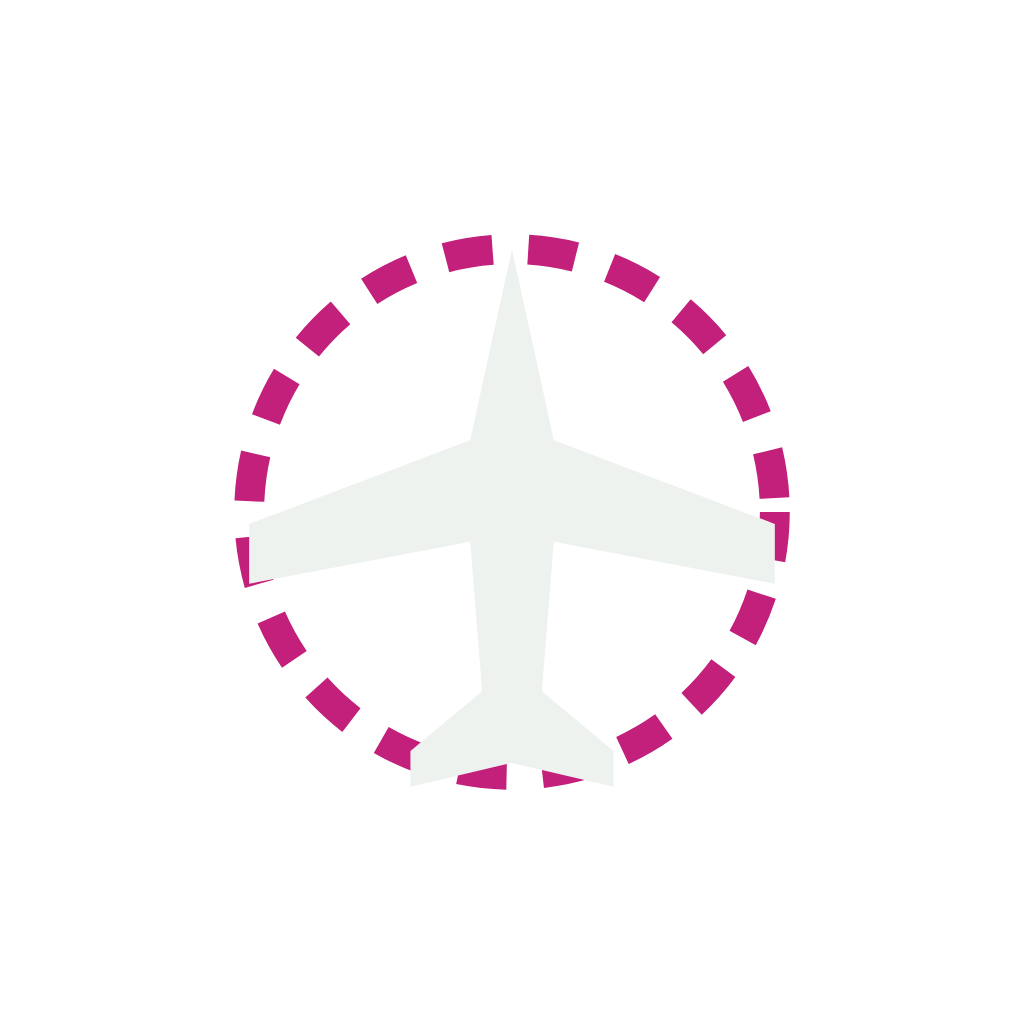
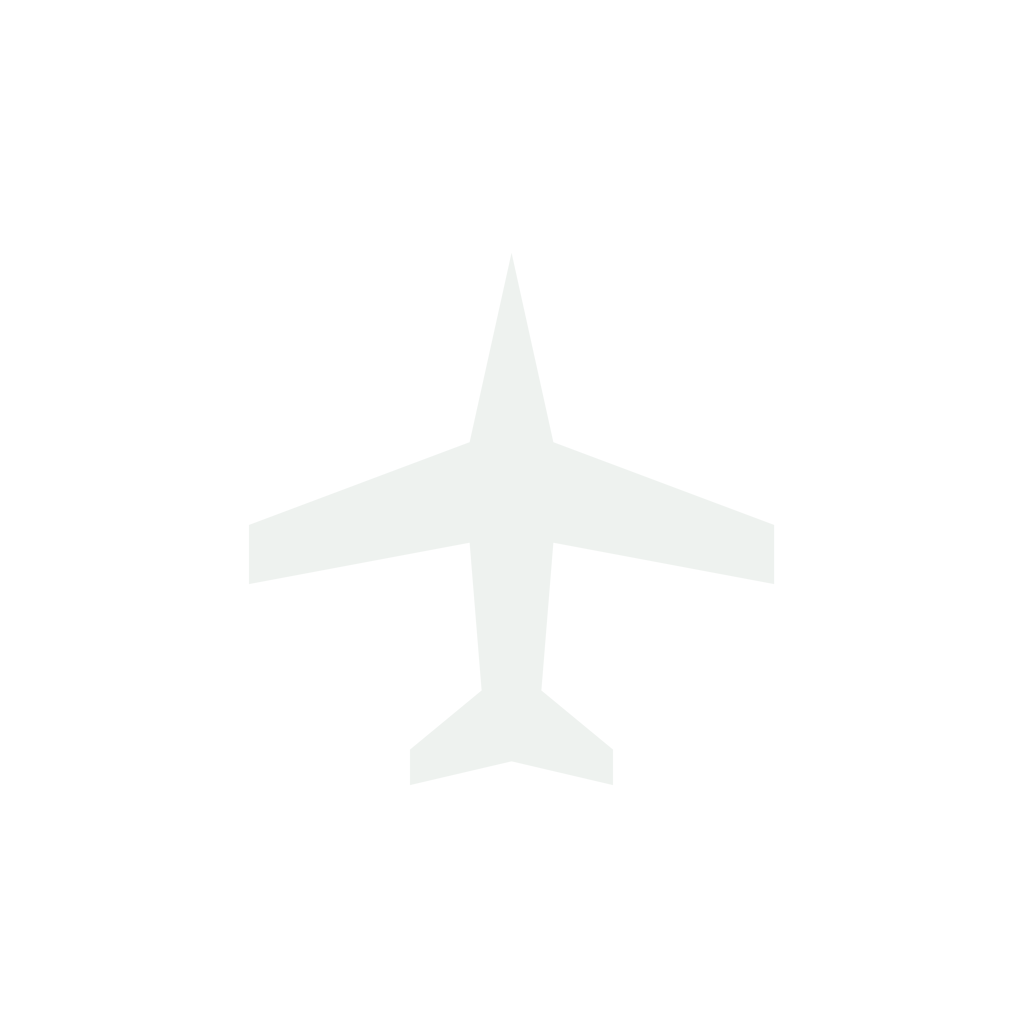
Hangar Escola: ícone sem o anel rosa e intro com decolagem
Claude-Session: https://claude.ai/code/session_01PxKViBYL6qRqF4hkoHqSJb

diff --git a/aviao/index.html b/aviao/index.html
@@ -13,9 +13,53 @@
   <link rel="preconnect" href="https://fonts.googleapis.com">
   <link rel="preconnect" href="https://fonts.gstatic.com" crossorigin>
   <link href="https://fonts.googleapis.com/css2?family=Barlow+Condensed:wght@500;600;700&family=IBM+Plex+Mono:wght@400;500&family=IBM+Plex+Sans:wght@400;500;600&display=swap" rel="stylesheet">
-  <link rel="stylesheet" href="style.css?v=74">
+  <link rel="stylesheet" href="style.css?v=75">
 </head>
 <body>
+  <!-- Intro: o avião decola pela pista iluminada e aparece o nome do app (toque para pular) -->
+  <div class="intro" id="intro" aria-hidden="true">
+    <svg class="intro__scene" viewBox="0 0 360 640" preserveAspectRatio="xMidYMax slice">
+      <defs>
+        <linearGradient id="introTrail" x1="0" y1="1" x2="0" y2="0"><stop offset="0" stop-color="#eef2ef" stop-opacity="0"/><stop offset="1" stop-color="#eef2ef" stop-opacity=".55"/></linearGradient>
+      </defs>
+      <path class="intro__runway" d="M150 640 L176 220 L184 220 L210 640 Z"/>
+      <line class="intro__center" x1="180" y1="640" x2="180" y2="230"/>
+        <circle class="intro__light" cx="140.8" cy="590.0" r="3.31" style="animation-delay:0.00s"/>
+        <circle class="intro__light" cx="219.2" cy="590.0" r="3.31" style="animation-delay:0.00s"/>
+        <circle class="intro__light" cx="142.9" cy="562.0" r="3.15" style="animation-delay:0.07s"/>
+        <circle class="intro__light" cx="217.1" cy="562.0" r="3.15" style="animation-delay:0.07s"/>
+        <circle class="intro__light" cx="145.1" cy="534.0" r="2.99" style="animation-delay:0.14s"/>
+        <circle class="intro__light" cx="214.9" cy="534.0" r="2.99" style="animation-delay:0.14s"/>
+        <circle class="intro__light" cx="147.2" cy="506.0" r="2.83" style="animation-delay:0.21s"/>
+        <circle class="intro__light" cx="212.8" cy="506.0" r="2.83" style="animation-delay:0.21s"/>
+        <circle class="intro__light" cx="149.3" cy="478.0" r="2.67" style="animation-delay:0.28s"/>
+        <circle class="intro__light" cx="210.7" cy="478.0" r="2.67" style="animation-delay:0.28s"/>
+        <circle class="intro__light" cx="151.5" cy="450.0" r="2.51" style="animation-delay:0.35s"/>
+        <circle class="intro__light" cx="208.5" cy="450.0" r="2.51" style="animation-delay:0.35s"/>
+        <circle class="intro__light" cx="153.6" cy="422.0" r="2.35" style="animation-delay:0.42s"/>
+        <circle class="intro__light" cx="206.4" cy="422.0" r="2.35" style="animation-delay:0.42s"/>
+        <circle class="intro__light" cx="155.7" cy="394.0" r="2.19" style="animation-delay:0.49s"/>
+        <circle class="intro__light" cx="204.3" cy="394.0" r="2.19" style="animation-delay:0.49s"/>
+        <circle class="intro__light" cx="157.9" cy="366.0" r="2.03" style="animation-delay:0.56s"/>
+        <circle class="intro__light" cx="202.1" cy="366.0" r="2.03" style="animation-delay:0.56s"/>
+        <circle class="intro__light" cx="160.0" cy="338.0" r="1.87" style="animation-delay:0.63s"/>
+        <circle class="intro__light" cx="200.0" cy="338.0" r="1.87" style="animation-delay:0.63s"/>
+        <circle class="intro__light" cx="162.1" cy="310.0" r="1.71" style="animation-delay:0.70s"/>
+        <circle class="intro__light" cx="197.9" cy="310.0" r="1.71" style="animation-delay:0.70s"/>
+        <circle class="intro__light" cx="164.3" cy="282.0" r="1.55" style="animation-delay:0.77s"/>
+        <circle class="intro__light" cx="195.7" cy="282.0" r="1.55" style="animation-delay:0.77s"/>
+        <circle class="intro__light" cx="166.4" cy="254.0" r="1.39" style="animation-delay:0.84s"/>
+        <circle class="intro__light" cx="193.6" cy="254.0" r="1.39" style="animation-delay:0.84s"/>
+      <line class="intro__trail" x1="166" y1="560" x2="174" y2="300"/>
+      <line class="intro__trail" x1="194" y1="560" x2="186" y2="300"/>
+      <g class="intro__plane"><path d="M32 10 L35.5 26 L54 33 L54 38 L35.5 34.5 L34.5 47 L40.5 52 L40.5 55 L32 53 L23.5 55 L23.5 52 L29.5 47 L28.5 34.5 L10 38 L10 33 L28.5 26 Z" transform="translate(148 520)"/></g>
+    </svg>
+    <div class="intro__text">
+      <p class="intro__title">HANGAR ESCOLA</p>
+      <p class="intro__sub">Aprenda aviação, peça por peça</p>
+    </div>
+    <p class="intro__skip">Toque para pular</p>
+  </div>
   <header class="top">
     <div class="wrap top__row">
       <a class="brand" href="#pecas" data-tab="pecas">
@@ -789,13 +833,13 @@
       </div>
     </section>
   </aside>
-  <script src="avioes.js?v=74"></script>
-  <script src="catalogo747.js?v=74"></script>
-  <script src="cockpit747.js?v=74"></script>
-  <script src="motor3d.js?v=74"></script>
-  <script src="motor747.js?v=74"></script>
-  <script src="meteo.js?v=74"></script>
-  <script src="app.js?v=74"></script>
+  <script src="avioes.js?v=75"></script>
+  <script src="catalogo747.js?v=75"></script>
+  <script src="cockpit747.js?v=75"></script>
+  <script src="motor3d.js?v=75"></script>
+  <script src="motor747.js?v=75"></script>
+  <script src="meteo.js?v=75"></script>
+  <script src="app.js?v=75"></script>
   <script>
     // No APK os arquivos já vêm dentro do app; o service worker é só para o site.
     const nativo = !!(window.Capacitor && window.Capacitor.isNativePlatform && window.Capacitor.isNativePlatform());

diff --git a/aviao/style.css b/aviao/style.css
@@ -96,6 +96,25 @@ button, input { font: inherit; color: inherit; }
 .tab[aria-selected="true"] .tab__key { background: var(--magenta); border-color: var(--magenta); color: var(--paper); }
 /* Explorar: uma aba com a lista das seções */
 .tabdrop { position: relative; min-width: 0; }
+/* Intro */
+.intro { position: fixed; inset: 0; z-index: 100; background: radial-gradient(ellipse 90% 70% at 50% 38%, #1d2c3a, #0b1218 70%); display: grid; overflow: hidden; cursor: pointer; transition: opacity .45s ease; }
+.intro.is-out { opacity: 0; pointer-events: none; }
+.intro__scene { position: absolute; inset: 0; width: 100%; height: 100%; }
+.intro__runway { fill: #18232d; }
+.intro__center { stroke: rgba(238,242,239,.35); stroke-width: 2; stroke-dasharray: 12 14; animation: introDash 1.1s linear infinite; }
+.intro__light { fill: #ffd76a; opacity: .25; animation: introLight 1s ease-in-out infinite; }
+.intro__plane { fill: #eef2ef; transform-box: view-box; transform-origin: 180px 552px; animation: introTakeoff 2.2s cubic-bezier(.55,0,.35,1) .35s both; filter: drop-shadow(0 6px 10px rgba(0,0,0,.5)); }
+.intro__trail { stroke: url(#introTrail); stroke-width: 3; stroke-linecap: round; stroke-dasharray: 260; stroke-dashoffset: 260; animation: introTrail 1.6s ease-out .9s both; }
+.intro__text { align-self: start; justify-self: center; text-align: center; margin-top: calc(13vh + env(safe-area-inset-top, 0px)); padding: 0 16px; color: #eef2ef; position: relative; }
+.intro__title { margin: 0; font-family: var(--display); font-weight: 700; font-size: clamp(36px, 11vw, 64px); letter-spacing: .04em; opacity: 0; animation: introIn .8s ease-out 1.35s both; }
+.intro__sub { margin: 6px 0 0; font-size: clamp(14px, 4vw, 18px); color: #f06aae; letter-spacing: .02em; opacity: 0; animation: introIn .8s ease-out 1.75s both; }
+.intro__skip { position: absolute; left: 0; right: 0; bottom: calc(18px + env(safe-area-inset-bottom, 0px)); margin: 0; text-align: center; font: 500 12px var(--mono); color: rgba(238,242,239,.45); letter-spacing: .08em; text-transform: uppercase; }
+@keyframes introLight { 0%, 100% { opacity: .2; } 30% { opacity: 1; } }
+@keyframes introDash { to { stroke-dashoffset: -26; } }
+@keyframes introTakeoff { 0% { transform: translateY(0) scale(1.15); } 100% { transform: translateY(-330px) scale(.42); } }
+@keyframes introTrail { to { stroke-dashoffset: 0; } }
+@keyframes introIn { from { opacity: 0; transform: translateY(10px); } to { opacity: 1; transform: none; } }
+@media (prefers-reduced-motion: reduce) { .intro * { animation-duration: .01s !important; animation-delay: 0s !important; } }
 /* Meteorologia */
 .met { display: grid; gap: 20px; margin-top: 18px; }
 .met__atlas { padding: 0; overflow: hidden; display: grid; grid-template-columns: minmax(0, 1.5fr) minmax(0, 1fr); }

diff --git a/aviao/sw.js b/aviao/sw.js
@@ -1,7 +1,7 @@
 /* Service worker: o app abre e funciona offline. */
-const CACHE = 'hangar-escola-v74';
+const CACHE = 'hangar-escola-v75';
 // Os arquivos levam "?v=" no index.html: ao mudar a versão, o celular nunca mistura CSS/JS antigo com HTML novo.
-const FILES = ['./', 'index.html', 'style.css?v=74', 'avioes.js?v=74', 'catalogo747.js?v=74', 'cockpit747.js?v=74', 'motor3d.js?v=74', 'motor747.js?v=74', 'meteo.js?v=74', 'app.js?v=74', 'icon.svg', 'manifest.webmanifest', 'assets/747-lateral.jpg', 'assets/747-frontal.jpg', 'assets/747-motor.jpg', 'assets/747-superior.png', 'assets/747-lado.webp', 'assets/747-lado-prof.webp', 'assets/747-tras.webp', 'assets/747-tras-trem.webp', 'assets/bank-angle.mp3', 'assets/v1.mp3', 'assets/nuvem-cb.webp', 'assets/nuvem-cu.webp', 'assets/nuvem-ci.webp', 'assets/nuvem-cc.webp', 'assets/nuvem-cs.webp', 'assets/nuvem-ac.webp', 'assets/nuvem-as.webp', 'assets/nuvem-ns.webp', 'assets/nuvem-sc.webp', 'assets/nuvem-st.webp', 'assets/nuvens-atlas.webp'];
+const FILES = ['./', 'index.html', 'style.css?v=75', 'avioes.js?v=75', 'catalogo747.js?v=75', 'cockpit747.js?v=75', 'motor3d.js?v=75', 'motor747.js?v=75', 'meteo.js?v=75', 'app.js?v=75', 'icon.svg', 'manifest.webmanifest', 'assets/747-lateral.jpg', 'assets/747-frontal.jpg', 'assets/747-motor.jpg', 'assets/747-superior.png', 'assets/747-lado.webp', 'assets/747-lado-prof.webp', 'assets/747-tras.webp', 'assets/747-tras-trem.webp', 'assets/bank-angle.mp3', 'assets/v1.mp3', 'assets/nuvem-cb.webp', 'assets/nuvem-cu.webp', 'assets/nuvem-ci.webp', 'assets/nuvem-cc.webp', 'assets/nuvem-cs.webp', 'assets/nuvem-ac.webp', 'assets/nuvem-as.webp', 'assets/nuvem-ns.webp', 'assets/nuvem-sc.webp', 'assets/nuvem-st.webp', 'assets/nuvens-atlas.webp'];
 
 self.addEventListener('install', (e) => {
   e.waitUntil(caches.open(CACHE).then((c) => c.addAll(FILES)).then(() => self.skipWaiting()));

diff --git a/aviao/app.js b/aviao/app.js
@@ -1224,4 +1224,17 @@ selPart = 'aileron'; setCraft('c172');
 renderProgress(); renderModules(); renderLesson();
 setCockpit('c172'); updateLab(); renderGloss();
 showTab(location.hash.slice(1) || 'pecas');
+
+// Intro: some sozinha depois da decolagem; um toque pula
+(() => {
+  const intro = $('#intro');
+  if (!intro) return;
+  const reduce = matchMedia('(prefers-reduced-motion: reduce)').matches;
+  // Na tela deitada a pista inteira cabe (meet); em pé ela preenche a tela (slice)
+  if (innerWidth > innerHeight) intro.querySelector('.intro__scene')?.setAttribute('preserveAspectRatio', 'xMidYMax meet');
+  let gone = false;
+  const done = () => { if (gone) return; gone = true; intro.classList.add('is-out'); setTimeout(() => intro.remove(), 500); };
+  const t = setTimeout(done, reduce ? 900 : 3300);
+  intro.addEventListener('click', () => { clearTimeout(t); done(); });
+})();
 })();
